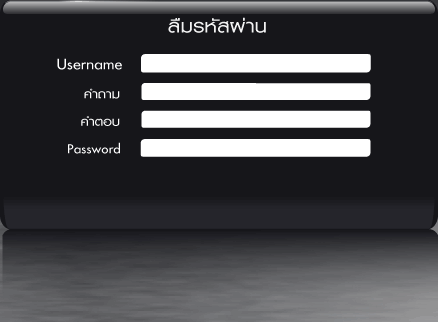
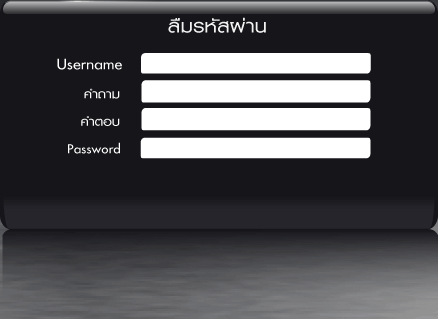
add forgot page

diff --git a/css/member.css b/css/member.css
@@ -136,14 +136,25 @@
 .page-forgot { height:750px; }
 
 .page-forgot #dialog {
-	width:439px; height:267px; background:transparent url("../images/login/dialog.gif") no-repeat 0px 0px;
-	position:absolute; top:228px; left:302px;
+	width:438px; height:322px; background:transparent url("../images/forgot/bg.png") no-repeat 0px 0px;
+	position:absolute; top:236px; left:302px;
 }
-.page-forgot #dialog .username { position:absolute; top:35px; left:149px; width:225px; background:transparent; }
-.page-forgot #dialog .password { position:absolute; top:76px; left:149px; width:225px; background:transparent; }
+.page-forgot #dialog .username { position:absolute; top:52px; left:144px; width:225px; background:transparent; }
+.page-forgot #dialog .question { position:absolute; top:81px; left:144px; width:225px; background:transparent; }
+.page-forgot #dialog .answer { position:absolute; top:108px; left:144px; width:225px; background:transparent; }
+.page-forgot #dialog .password { position:absolute; top:137px; left:144px; width:225px; background:transparent; }
 .page-forgot #dialog .submit {
-	position:absolute; top:145px; left:178px; width:86px; height:32px; text-indent:-2000px;
-	background:transparent url("../images/login/b-submit.gif") no-repeat 0px 0px; cursor:pointer;
+	position:absolute; top:173px; left:184px; width:84px; height:31px; text-indent:-2000px;
+	background:transparent url("../images/forgot/b-submit.png") no-repeat 0px 0px; cursor:pointer;
 }
-.page-forgot #dialog .submit:hover { background-position:0px -32px; }
+.page-forgot #dialog .submit:hover { background-position:0px -31px; }
+
+.page-forgot .b-next {
+	position:absolute; top:173px; left:184px; width:84px; height:31px; text-indent:-2000px;
+	background:transparent url("../images/forgot/b-next.png") no-repeat 0px 0px; cursor:pointer;
+}
+.page-forgot .b-next:hover { background-position:0px -31px; }
+
+.page-forgot .step1 .b-next { top:123px; }
+.page-forgot .step1 #step-mask { width:363px; height:90px; position:absolute; top: 77px; left:40px; border:0px solid #ff0000; background-color:#16161a; }
 /* end login */

diff --git a/css/style.css b/css/style.css
@@ -23,7 +23,8 @@ form input {
 .page-login input, .page-login select,
 .page-register input, .page-register select,
 .page-transfer input, .page-transfer select,
-.page-booking-check input, .page-booking-check select
+.page-booking-check input, .page-booking-check select,
+.page-forgot input, .page-forgot select
 { border:0px; -webkit-box-shadow: none !important; box-shadow: none !important; background:transparent; }
 /* end common/global */
 

diff --git a/application/views/member-forgot.php b/application/views/member-forgot.php
@@ -1,7 +1,8 @@
 <div id="content-body" class="page-forgot">
 	<?=$this->load->view('includes/inc-main-menu','', TRUE)?>
 
-	<div id="dialog">
+	<div id="dialog" class="step1">
+		<div id="step-mask"></div>
 		<?= form_open(); ?>
 		<?php
 			$forms = array(
@@ -14,12 +15,7 @@
 				array(
 					'name'		=> 'question',
 					'class'		=> 'question',
-					'type'		=> 'dropdown',
-					'options'	=> array('สัตว์เลี้ยงตัวแรกของคุณชื่ออะไร?'=>'สัตว์เลี้ยงตัวแรกของคุณชื่ออะไร?',
-										'เพื่อนสนิทสมัยวัยรุ่นของคุณชื่ออะไร?'=>'เพื่อนสนิทสมัยวัยรุ่นของคุณชื่ออะไร?',
-										'อาหารจานแรกที่คุณหัดทำคืออะไร?'=>'อาหารจานแรกที่คุณหัดทำคืออะไร?',
-										'คุณขึ้นเครื่องบินไปที่ไหนครั้งแรก?'=>'คุณขึ้นเครื่องบินไปที่ไหนครั้งแรก?'
-									)
+					'readonly'	=> 'readonly'
 				),
 				array(
 					'name'		=> 'answer',
@@ -35,17 +31,34 @@
 			);
 			form_helper_generate_form($forms);
 		?>
+
+		<a href="#next" class="b-next"></a>
+<!--
 		<?= form_submit(array(
 				'id'		=> 'submit',
 				'value'		=> '',
 				'class'		=> 'submit'
 			));
 		?>
+-->
 		<?= form_close() ?>
 	</div>
 </div>
+
+<div style="z-index: 1500; opacity: 1; display: block; top: 287px; left: 682px;" aria-live="polite" role="alert" tracking="false" class="qtip qtip-default qtip-red qtip-pos-lc" id="qtip-0">
+	<div style="background: transparent url('<?= base_url('/js/lib/jquery.qtip/arrow-tip.gif') ?>') no-repeat! important; border: 0px none ! important; width: 8px; height: 8px; line-height: 8px; top: 50%; margin-top: -4px; left: -8px; visibility:visible !important;" class="qtip-tip">&nbsp;</div>
+	<div aria-atomic="true" class="qtip-content">กรุณาป้อน "Username"</div>
+</div>
+
 <script type="text/javascript">
 	$(function(){
+		var bNext = $('.b-next'),
+			stepMask = $('#step-mask');
+
+		bNext.click(function(){
+			// post ajax
+		});
+
 		$('#submit').click(function(){
 			setTimeout(function(){
 				$(this).attr('disabled', 'disabled');

diff --git a/application/controllers/forgot.php b/application/controllers/forgot.php
@@ -1,0 +1,31 @@
+<?php
+class Forgot extends CI_Controller {
+
+
+	function __construct()
+	{
+		parent::__construct();
+
+		$this->load->library('form_validation');
+		$this->form_validation->set_error_delimiters('', '');
+
+		// load model
+		$this->load->model('person_model','',TRUE);
+		$this->load->model('email_model','',TRUE);
+
+		$this->output->set_header('Cache-Control: no-cache, no-store, must-revalidate, max-age=0');
+		$this->output->set_header('Cache-Control: post-check=0, pre-check=0', FALSE);
+		$this->output->set_header('Cache-Control: max-age=-1281, public, must-revalidate, proxy-revalidate', FALSE);
+		$this->output->set_header('Pragma: no-cache');
+	}
+
+	function index(){
+		$this->phxview->RenderView('member-forgot');
+		$this->phxview->RenderLayout('default');
+	}
+
+
+
+} // end class
+
+

diff --git a/application/controllers/member.php b/application/controllers/member.php
@@ -61,11 +61,6 @@ class Member extends CI_Controller {
 		redirect('index', 'refresh');
 	}
 
-	function forgot(){
-		$this->phxview->RenderView('member-forgot');
-		$this->phxview->RenderLayout('default');
-	}
-
 	function register(){
 		if(is_user_session_exist($this))
 			redirect('member/profile');
@@ -208,11 +203,9 @@ class Member extends CI_Controller {
 		}
 	}
 
-	function render_email(){
-		$this->phxview->RenderView('email/register-success');
-		$this->phxview->RenderLayout('empty');
+	function forgot(){
+		redirect('forgot');
 	}
-
 
 
 } // end class

diff --git a/application/views/login.php b/application/views/login.php
@@ -23,8 +23,8 @@
 			form_helper_generate_form($forms);
 		?>
 		<ul id="sub-menu">
-			<li><a href="register" class="sub-menu-1"></a></li>
-			<li><a href="forgot" class="sub-menu-2"></a></li>
+			<li><a href="<?= site_url('member/register') ?>" class="sub-menu-1"></a></li>
+			<li><a href="<?= site_url('forgot') ?>" class="sub-menu-2"></a></li>
 		</ul>
 		<?= form_submit(array(
 				'id'		=> 'submit',
